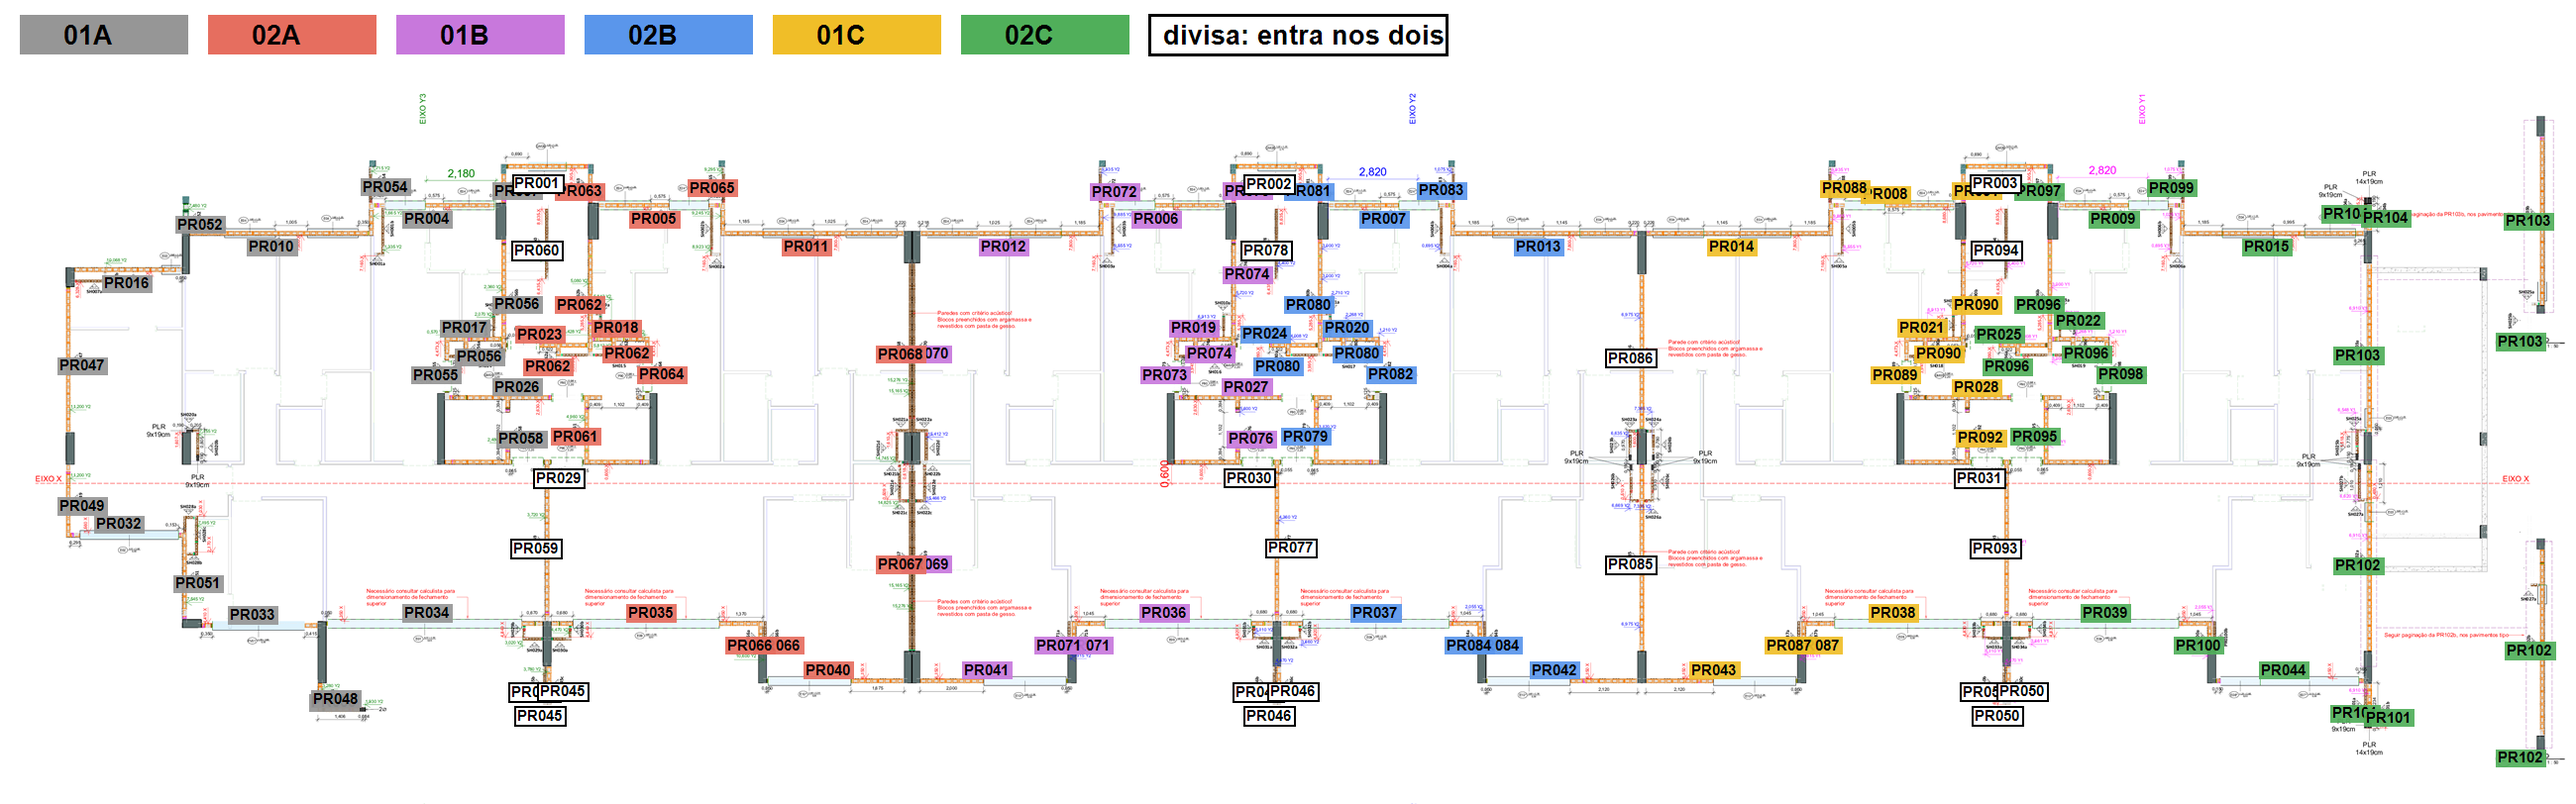
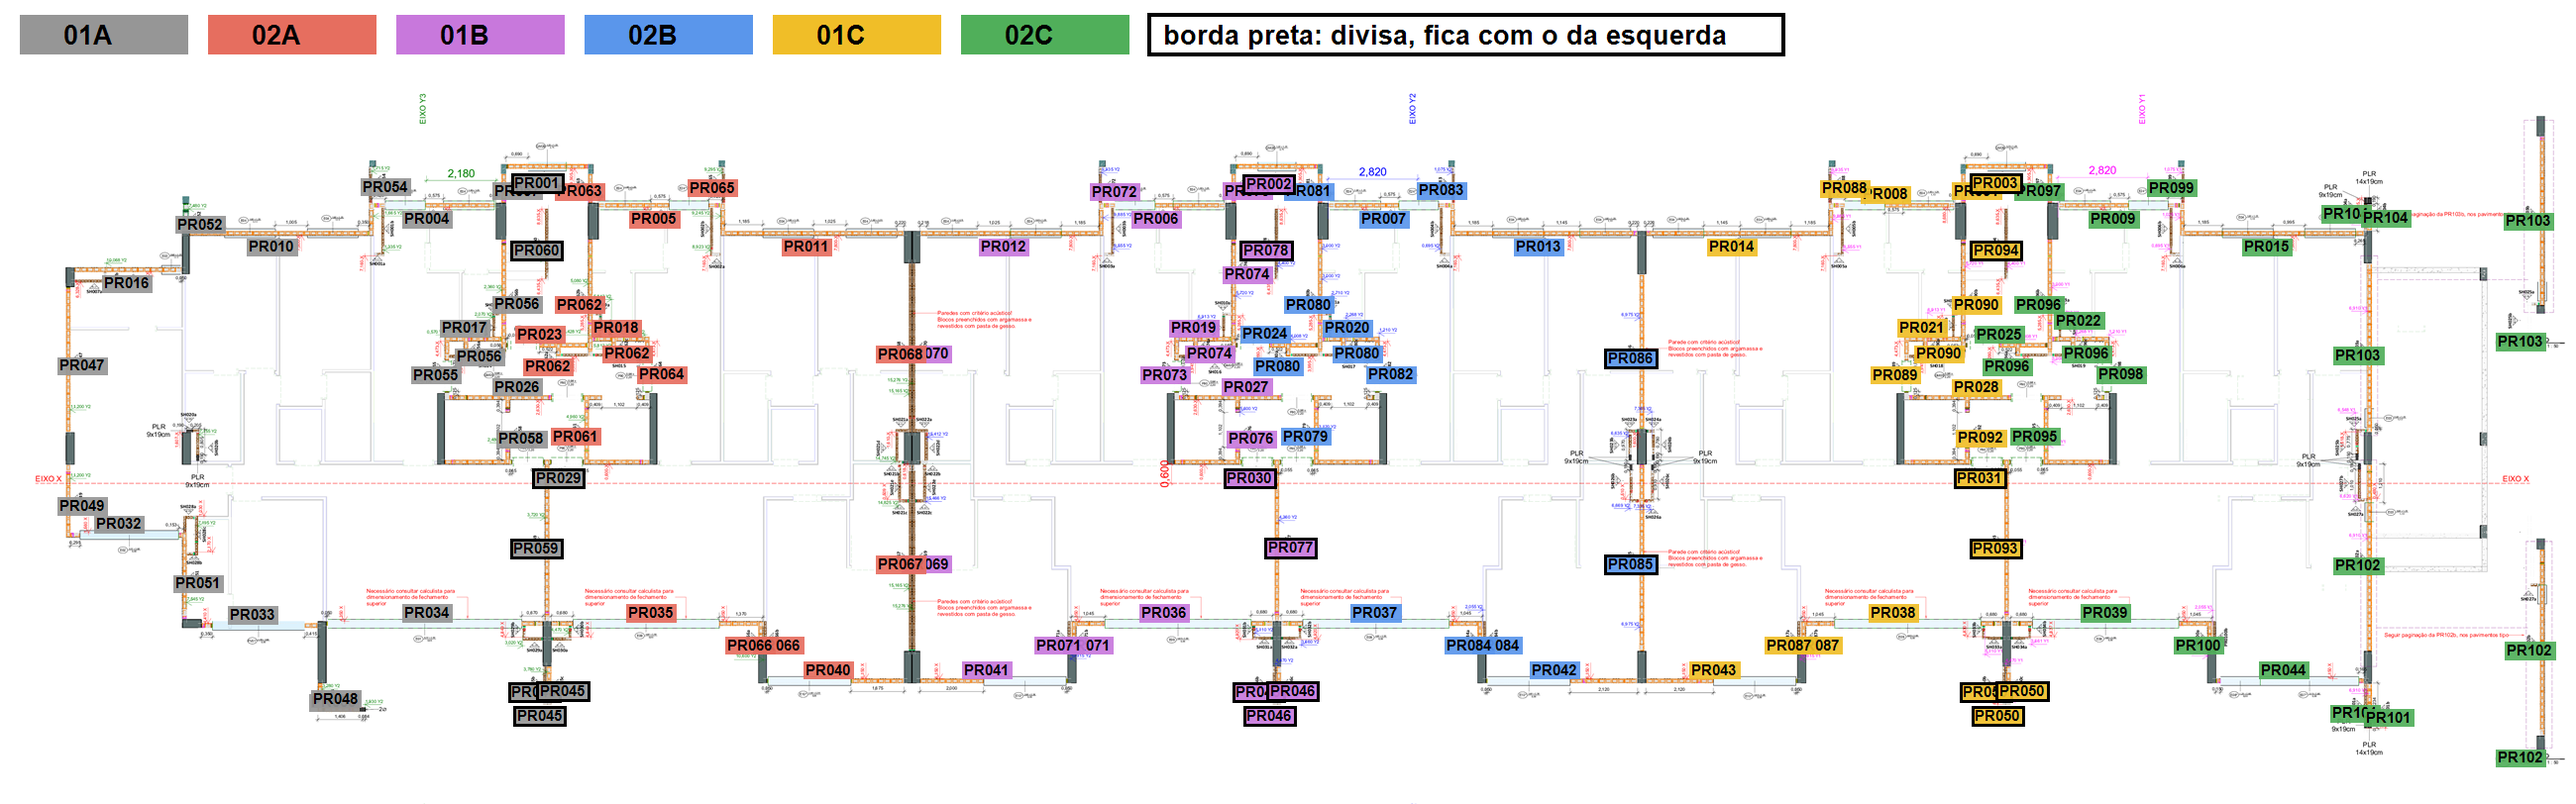
feat(material): parede de divisa fica com um apartamento só
Decisão do Roberto: a parede em cima da divisa não conta mais nos
dois vizinhos. Fica com o que vem antes na sequência 01A..02C (o da
esquerda na planta); os seis apartamentos agora somam o pavimento.

O JSON guarda a lista divisas com os dois vizinhos; a tela avisa o
que a seleção levou e o que ficou com o vizinho, e a planilha diz
para onde foi cada uma.

diff --git a/assets/js/alvenaria/modelo.js b/assets/js/alvenaria/modelo.js
@@ -115,7 +115,11 @@ export async function carregarCatalogo(){
       }
     }
     const divisao = est.aptos[p.jogo];
-    for(const w of lista) w.aptos = (divisao && divisao.paredes[w.codigo]) || [];
+    for(const w of lista){
+      w.aptos  = (divisao && divisao.paredes[w.codigo]) || [];
+      /* parede em cima da divisa: os dois vizinhos; ela conta só no 1º */
+      w.divisa = (divisao && divisao.divisas && divisao.divisas[w.codigo]) || null;
+    }
     est.porPavimento[p.c] = lista;
     for(const w of lista){ est.paredes.push(w); est.porId[w.id] = w; }
   }
@@ -290,11 +294,12 @@ export function materialDe(paredes){
 /* ------------------------------------------------------------
    Apartamentos
 
-   Cada parede PR do tipo sabe em que apartamento está (w.aptos).
-   A parede em cima da divisa — eixo do núcleo do bloco, ou a
-   parede única entre dois blocos — está nos DOIS vizinhos. Ao
-   juntar apartamentos, cada parede entra uma vez só: é união de
-   paredes, não soma de apartamentos.
+   Cada parede PR do tipo está em UM apartamento (w.aptos). A
+   parede em cima da divisa — eixo do núcleo do bloco, ou a parede
+   única entre os blocos B e C — fica com o apartamento que vem
+   antes na sequência 01A, 02A, 01B, 02B, 01C, 02C (o da esquerda
+   na planta), e w.divisa guarda os dois vizinhos, para a tela
+   avisar quem levou e quem não levou.
    ------------------------------------------------------------ */
 export function apartamentosDe(pav){
   const p = est.pavPorCodigo[pav];
@@ -321,13 +326,20 @@ export function paredesDosAptos(pav, sel){
     return w.aptos.some(function(a){ return sel.indexOf(a) !== -1; });
   });
 }
-/* paredes de divisa da seleção cujo vizinho NÃO está selecionado:
-   são as que também vão aparecer no material do outro */
-export function divisasCompartilhadas(paredes, sel){
-  if(!sel || !sel.length) return [];
-  return paredes.filter(function(w){
-    return w.aptos.length > 1 && w.aptos.some(function(a){ return sel.indexOf(a) === -1; });
-  });
+/* Divisas que atravessam a borda da seleção:
+   · levadas: estão na seleção e o outro vizinho ficou de fora —
+     o material delas sobe com a seleção;
+   · deixadas: ficaram com o vizinho de fora — não estão aqui. */
+export function divisasDaSelecao(pav, sel){
+  const r = { levadas: [], deixadas: [] };
+  if(!sel || !sel.length) return r;
+  for(const w of (est.porPavimento[pav] || [])){
+    if(!w.divisa) continue;
+    const dentro = w.divisa.filter(function(a){ return sel.indexOf(a) !== -1; }).length;
+    if(dentro !== 1) continue;
+    if(sel.indexOf(w.aptos[0]) !== -1) r.levadas.push(w); else r.deixadas.push(w);
+  }
+  return r;
 }
 
 /* Quantitativo de material de um pavimento: o que a aba Material
@@ -350,7 +362,7 @@ export function quantitativoMaterial(pav, sel){
   const ehBloco = function(i){ return String(est.skus[i]).indexOf("TELA") !== 0; };
   return {
     pav: pav, nome: (est.pavPorCodigo[pav] || {}).n || pav, pecas: lista.length,
-    aptos: sel.slice(), divisas: divisasCompartilhadas(todas, sel),
+    aptos: sel.slice(), divisas: divisasDaSelecao(pav, sel),
     ordem: ordem, previsto: previsto, assentado: assentado,
     blocos: ordem.filter(ehBloco), telas: ordem.filter(function(i){ return !ehBloco(i); }),
     linear: linearDe(todas)

diff --git a/assets/js/alvenaria/exportar.js b/assets/js/alvenaria/exportar.js
@@ -1,5 +1,5 @@
 import { $ } from "../ui.js";
-import { apartamentosDe, aptosAtivos, est, hojeISO, paredesDosAptos, quantitativoMaterial } from "./modelo.js";
+import { apartamentosDe, aptosAtivos, est, hojeISO, quantitativoMaterial } from "./modelo.js";
 
 /* ------------------------------------------------------------
    EXPORTAR — quantitativo de material em planilha Excel (.xlsx)
@@ -97,7 +97,8 @@ function linhasPavimento(q){
 
 /* Saldo por apartamento: uma coluna por apartamento (os escolhidos,
    ou todos se nenhum foi escolhido) e, na última, o conjunto sem
-   repetir a parede de divisa — que é o que está na tabela de cima. */
+   o conjunto (ou o pavimento) — que é o que está na tabela de cima.
+   Cada parede está em um apartamento só: as colunas somam o total. */
 function linhasPorApartamento(q){
   const todos = apartamentosDe(q.pav);
   if(!todos.length || !q.ordem.length) return [];
@@ -108,18 +109,21 @@ function linhasPorApartamento(q){
     return soma(ids, qa.previsto) - Math.round(soma(ids, qa.assentado));
   };
   const L = [[], ["SALDO POR APARTAMENTO (un) · o que ainda falta subir"]];
-  L.push(["SKU"].concat(cols, [q.aptos.length ? "Conjunto, sem repetir divisa" : "Pavimento"]));
+  L.push(["SKU"].concat(cols, [q.aptos.length ? "Conjunto" : "Pavimento"]));
   q.ordem.forEach(function(i){
     L.push([est.skus[i]].concat(qs.map(function(qa){ return saldo(qa, i); }), [saldo(q, i)]));
   });
   L.push(["Total blocos"].concat(qs.map(function(qa){ return saldoTot(qa, q.blocos); }), [saldoTot(q, q.blocos)]));
   L.push(["Total telas"].concat(qs.map(function(qa){ return saldoTot(qa, q.telas); }), [saldoTot(q, q.telas)]));
 
-  const divisas = paredesDosAptos(q.pav, cols).filter(function(w){ return w.aptos.length > 1; });
+  const divisas = (est.porPavimento[q.pav] || []).filter(function(w){
+    return w.divisa && w.divisa.some(function(a){ return cols.indexOf(a) !== -1; });
+  });
   if(divisas.length){
-    L.push(["Paredes em cima da divisa entram nos dois apartamentos vizinhos — por isso a soma das colunas " +
-            "passa do total. São " + divisas.length + ": " +
-            divisas.map(function(w){ return w.codigo + " (" + w.aptos.join("/") + ")"; }).join(", ") + "."]);
+    L.push(["Paredes em cima da divisa ficam com o apartamento que vem antes na sequência 01A, 02A, 01B, 02B, " +
+            "01C, 02C: " + divisas.map(function(w){
+              return w.codigo + " → " + w.aptos[0] + " (divisa " + w.divisa.join("/") + ")";
+            }).join(", ") + "."]);
   }
   return L;
 }

diff --git a/assets/js/alvenaria/paineis.js b/assets/js/alvenaria/paineis.js
@@ -374,12 +374,18 @@ function seletorApartamentos(lista, sel){
 }
 
 function avisoDivisas(q){
-  if(!q.divisas.length) return "";
-  const bl = blocosDe(q.divisas);
-  return '<div class="alv-msg">Inclui ' + q.divisas.length + " parede(s) em cima da divisa, que também " +
-    "entram no material do apartamento vizinho (" + ni(bl) + " blocos): " +
-    q.divisas.map(function(w){ return esc(w.codigo) + " (" + esc(w.aptos.join("/")) + ")"; }).join(", ") +
-    ". Selecionando os vizinhos juntos, cada uma conta uma vez só.</div>";
+  const lista = function(ws){
+    return ws.map(function(w){ return esc(w.codigo) + " (" + esc(w.divisa.join("/")) + ")"; }).join(", ");
+  };
+  const d = q.divisas;
+  return (d.levadas.length
+      ? '<div class="alv-msg">Inclui ' + d.levadas.length + " parede(s) de divisa que ficaram com esta seleção " +
+        "(" + ni(blocosDe(d.levadas)) + " blocos): " + lista(d.levadas) + ".</div>"
+      : "") +
+    (d.deixadas.length
+      ? '<div class="alv-msg">Não inclui ' + d.deixadas.length + " parede(s) de divisa que ficaram com o vizinho " +
+        "(" + ni(blocosDe(d.deixadas)) + " blocos): " + lista(d.deixadas) + ".</div>"
+      : "");
 }
 
 export function desenharMaterial(){

diff --git a/README.md b/README.md
@@ -354,11 +354,12 @@ apartamento é editar uma linha ali.
 | Apartamento | Paredes | Blocos | Telas |
 |---|---|---|---|
 | 01A | 24 | 2.614 | 236 |
-| 02A | 19 | 2.416 | 171 |
+| 02A | 14 | 1.720 | 171 |
 | 01B | 19 | 2.471 | 160 |
-| 02B | 19 | 2.420 | 171 |
-| 01C | 19 | 2.484 | 160 |
-| 02C | 21 | 2.960 | 236 |
+| 02B | 14 | 1.724 | 171 |
+| 01C | 17 | 2.051 | 160 |
+| 02C | 16 | 2.264 | 236 |
+| **Pavimento** | **104** | **12.844** | **991** |
 
 ### O que ficou na divisa
 
@@ -371,19 +372,24 @@ conferidas na prancha, uma a uma:
 - **Perto do eixo de cada núcleo**, PR023 é do 02 (o rótulo está do
   lado do 01, a parede não); PR026, PR057 e PR058 são do 01. O mesmo
   vale para as equivalentes dos blocos B e C.
-- **17 paredes estão em cima da divisa e contam nos DOIS vizinhos**:
-  os eixos dos três núcleos (PR001, PR029, PR045, PR059, PR060 no
-  bloco A; PR002, PR030, PR046, PR077, PR078 no B; PR003, PR031,
-  PR050, PR093, PR094 no C) e a parede única entre os blocos B e C
-  (PR085, PR086). São 2.521 blocos por pavimento.
+- **17 paredes estão em cima da divisa**: os eixos dos três núcleos
+  (PR001, PR029, PR045, PR059, PR060 no bloco A; PR002, PR030, PR046,
+  PR077, PR078 no B; PR003, PR031, PR050, PR093, PR094 no C) e a
+  parede única entre os blocos B e C (PR085, PR086). São 2.521 blocos
+  por pavimento.
 
-Contar a divisa nos dois é de propósito: para subir material, faltar
-trava a equipe e sobrar não se perde — fica no mesmo andar, ao lado do
-vizinho que vai usar. **Ao marcar os dois vizinhos juntos, a parede
-entra uma vez só** (é união de paredes, não soma de apartamentos). Por
-isso a soma dos seis apartamentos (15.365) passa do pavimento
-(12.844): a diferença é exatamente a divisa. A tela avisa quais
-paredes da seleção são de divisa, e a planilha também.
+**A parede de divisa fica com um apartamento só: o que vem antes na
+sequência 01A, 02A, 01B, 02B, 01C, 02C** — o da esquerda na planta,
+que é quem chega primeiro nela se a execução seguir essa ordem.
+Decisão do Roberto em 12/11/2026. Com isso os seis apartamentos somam
+exatamente o pavimento. No JSON, a lista `divisas` guarda os dois
+vizinhos de cada uma: trocar o lado de uma parede é mudar o
+apartamento dela em `paredes`.
+
+A tela avisa as duas pontas: ao escolher o 01A, "inclui 5 paredes de
+divisa que ficaram com esta seleção"; ao escolher o 02A, "não inclui
+5 paredes de divisa que ficaram com o vizinho". Escolhendo os dois
+juntos, não há aviso. A planilha lista para onde foi cada uma.
 
 Na planilha, cada aba de pavimento tipo ganha a tabela **saldo por
 apartamento** (o que ainda falta subir), com uma coluna por
